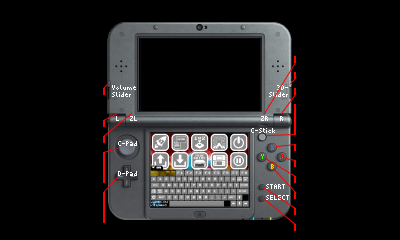
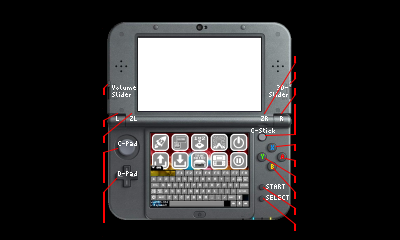
improve help screen animation

Changed region(s): [[0.33, 0.1458, 0.66, 0.4667]]

diff --git a/source/common/arch/sdl/uibottom.c b/source/common/arch/sdl/uibottom.c
@@ -318,6 +318,7 @@ static DS3_Image background_spr;
 static DS3_Image sbmask_spr;
 static DS3_Image sbdrag_spr;
 static DS3_Image keymask_spr;
+static DS3_Image black_spr;
 // dynamic sprites
 static DS3_Image touchpad_spr;
 static DS3_Image help_top_spr;
@@ -339,6 +340,8 @@ static SDL_Surface *smallchars=NULL;
 static SDL_Surface *keyimg=NULL;
 static SDL_Surface *joyimg=NULL;
 static SDL_Surface *touchpad_img=NULL;
+static SDL_Surface *help_top_img=NULL;
+static SDL_Surface *help_bottom_img=NULL;
 
 // variables for draging sbuttons
 static int dragging;
@@ -558,12 +561,23 @@ static void uibottom_repaint(void *param, int topupdated) {
 	
 	// help on top screen
 	if (help_on && (topupdated || update)) {
-		int x=help_anim*(400-vdev_hidden->w1*vdev_hidden->scalex)/200 + (100-help_anim)*138/100;
-		int y=help_anim*(240-vdev_hidden->h1*vdev_hidden->scaley)/200 + (100-help_anim)*37/100;
-		int w=help_anim*vdev_hidden->w1*vdev_hidden->scalex/100 + (100-help_anim)*122/100;
-		int h=help_anim*vdev_hidden->h1*vdev_hidden->scaley/100 + (100-help_anim)*73/100;
-		drawImage(&help_top_spr, 0, 0, 320, 240);
+		int x,y,w,h;
+		drawImage(&black_spr, 0,0,320,240);
+		
+		// midpoint: 200, 55, 144 -> 44
+		x=200-((help_anim+44)*(200-(400-vdev_hidden->w1*vdev_hidden->scalex)/2))/144;
+		y=55-((help_anim+44)*(55-(240-vdev_hidden->h1*vdev_hidden->scaley)/2))/144;
+		w=((help_anim+44)*vdev_hidden->w1*vdev_hidden->scalex)/144;
+		h=((help_anim+44)*vdev_hidden->h1*vdev_hidden->scaley)/144;
 		drawMainSpritesheetAt(x,y,w,h);
+
+		// xy: -363, -123 -> 0,0
+		// wh: 1048, 787 -> 400, 240
+		x = (help_anim*-363)/100;
+		y = (help_anim*-123)/100;
+		w = 320+(help_anim*728)/100;
+		h = 240+(help_anim*547)/100; 
+		drawImage(&help_top_spr, x, y, w, h);
 	}
 	
 	if (!update) return;
@@ -1164,6 +1178,10 @@ static void uibottom_init() {
 	SDL_SetAlpha(joyimg, 0, 255);
 	touchpad_img=IMG_Load("romfs:/touchpad.png");
 	SDL_SetAlpha(touchpad_img, 0, 255);
+	help_top_img=IMG_Load("romfs:/helpimg.png");
+	SDL_SetAlpha(help_top_img, 0, 255);
+	help_bottom_img=IMG_Load("romfs:/helpoverlay.png");
+	SDL_SetAlpha(help_bottom_img, 0, 255);
 
 	// pre-load sprites
 	loadImage(&twistyup_spr, "romfs:/twistyup.png");
@@ -1177,6 +1195,7 @@ static void uibottom_init() {
 	loadImage(&sbdrag_spr, "romfs:/sbdrag.png");
 	loadImage(&help_spr, "romfs:/help.png");
 	makeImage(&keymask_spr, (u8[]){0x00, 0x00, 0x00, 0x80},1,1,0);
+	makeImage(&black_spr, (u8[]){0, 0, 0, 0xFF},1,1,0);
 
 	svcCreateEvent(&repaintRequired,0);
 
@@ -1242,8 +1261,8 @@ typedef struct animation_set {
 
 int animate(void *data){
 	animation_set *a=data;
-	int steps = a->steps != 0 ? a->steps : 24 ;
-	int delay = a->delay != 0 ? a->delay : 10 ;
+	int steps = a->steps != 0 ? a->steps : 15 ;
+	int delay = a->delay != 0 ? a->delay : 16 ; // 1/60 sec, one 3ds frame
 	for (int s=0; s <= steps; s++) {
 		for (int i=0; i < a->nr; i++) {
 			*(a->anim[i].var)=
@@ -1320,8 +1339,7 @@ void toggle_help(int inmenu)
 		char buf[40];
 
 		// **** paint the top screen help image ********************
-		help_img=IMG_Load("romfs:/helpimg.png");
-		SDL_SetAlpha(help_img, 0, 255);
+		help_img = SDL_ConvertSurface(help_top_img, help_top_img->format, SDL_SWSURFACE);
 		char *p;
 		SDL_Color w=(SDL_Color){255,255,255,0};
 
@@ -1360,8 +1378,7 @@ void toggle_help(int inmenu)
 
 		// **** paint the bottom screen help image ********************
 		// 11 x 6 at 5,6
-		help_img=IMG_Load("romfs:/helpoverlay.png");
-		SDL_SetAlpha(help_img, 0, 255);
+		help_img = SDL_ConvertSurface(help_bottom_img, help_bottom_img->format, SDL_SWSURFACE);
 		if (!inmenu) {
 			// write the help texts into the overlay
 			for (int i = 0; uikbd_keypos[i].key != 0 ; ++i) {
